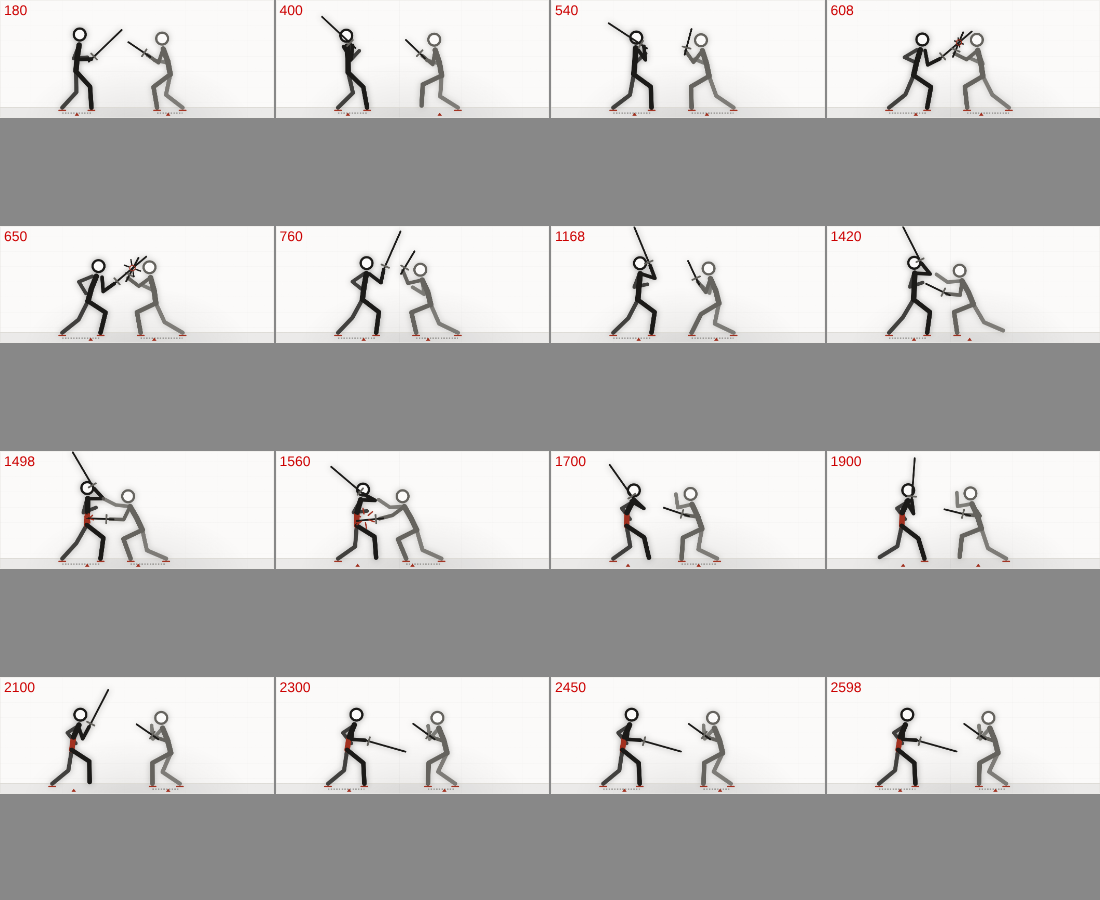
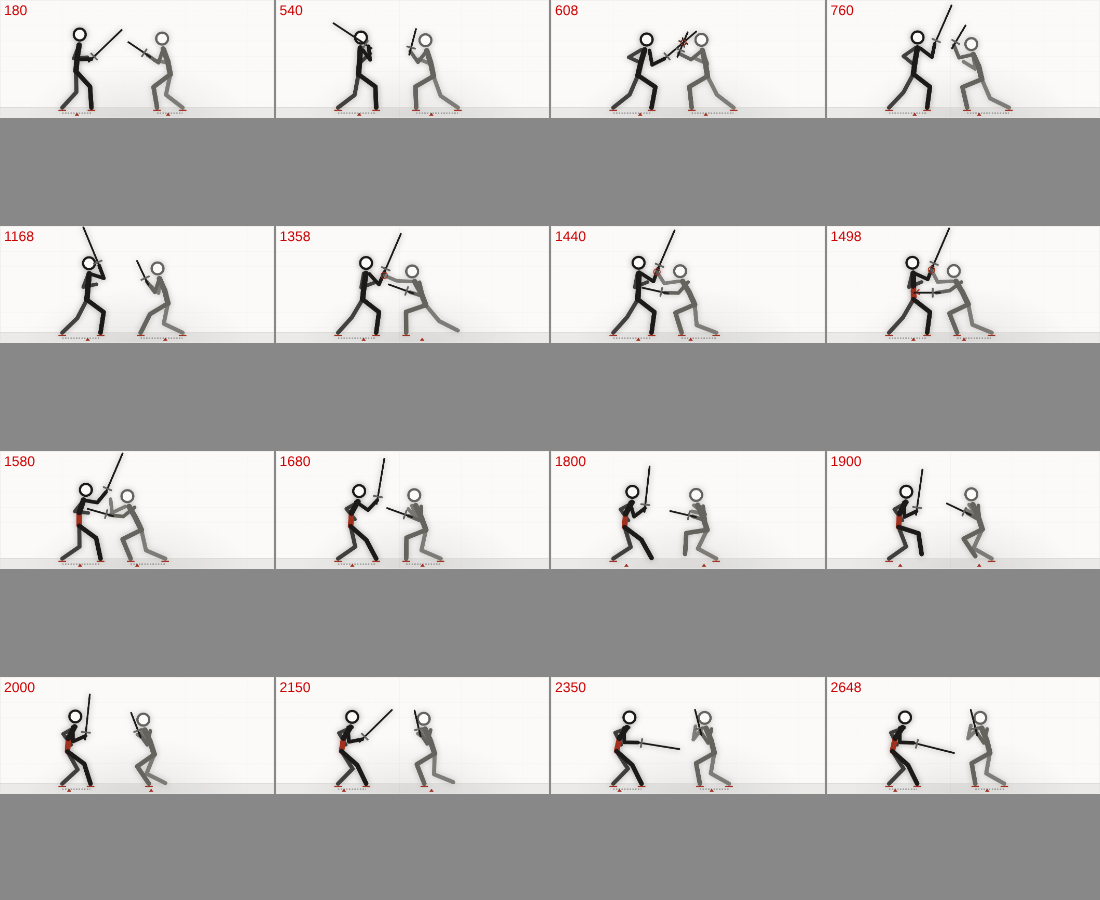
feat(pits): exchange study second pass: arm control, sword recovery, weighted steps, wounded stance
Owner's review of the spring exchange study: the sword arm is caught at the
wrist, held through the thrust and let go; the sword comes back hilt first, clear
of the face; steps load the other foot or push off, lift, set down and then
transfer the weight; the wounded fighter ends bent over the wound, weight back,
point low.

Claude-Session: https://claude.ai/code/session_018bTfyrAX6cckCNBNYAZYCu

diff --git a/experiments/pits-spring.js b/experiments/pits-spring.js
@@ -42,6 +42,21 @@ function Fighter(id,hx,face,weapon,guard){
 // a key pose in the fighter's own frame. w is the blade's angle as seen (converted to a wrist turn from the key's own arm)
 Fighter.prototype.key=function(t,pose,order){this.keys.push({t,pose,order:order||'attack'});return this;};
 Fighter.prototype.step=function(foot,t0,t1,x,lift){this.feet[foot].push({t0,t1,x,lift:lift==null?8:lift});return this;};
+// A step with its weight handled. Before the foot leaves, the hips go over the other foot (that leg is loaded, the
+// knees give a little: the push); the foot lifts, travels and is set down; then the hips move onto the new base.
+// settle: where between the support foot and the placed foot the weight ends (0 = on the support foot).
+Fighter.prototype.walk=function(foot,t0,t1,x,opt){
+  const o=opt||{},other=foot==='ff'?'bf':'ff',sup=footX(this,other,t0),from=footX(this,foot,t0),py=o.py==null?74:o.py;
+  this.step(foot,t0,t1,x,o.lift==null?10:o.lift);
+  this.key(t0-(o.lead==null?170:o.lead),{px:sup+(from-sup)*(o.load==null?.2:o.load),py:py-3});
+  // the hips travel while the foot is in the air (a spring arrives late, so the key is set at mid-step)
+  this.key(t0+(t1-t0)*.4,{px:sup+(x-sup)*(o.settle==null?.45:o.settle),py});
+  // push: the foot that is about to leave drives the hips toward the support foot (out of a lunge, where the stance is
+  // too long for the hips to get over the rear foot first)
+  if(o.push)this.impulse(t0,{px:Math.sign(sup-from)*o.push});
+  this.steps=(this.steps||[]).concat([{foot,t0,t1,sup:other,push:!!o.push}]);
+  return this;
+};
 Fighter.prototype.impulse=function(t,v){this.impulses.push({t,v});return this;};
 // a contact constraint: from t0 the hand is blended toward the place where the point `along` the blade (or the empty
 // hand, along null) is on target(t); fully there from t1 to t2; released at t2 with the momentum it had.
@@ -59,13 +74,20 @@ function pose(f,s,t){
   return q;
 }
 const sm=u=>u<=0?0:u>=1?1:u*u*(3-2*u);
+// A step, from the floor up: the foot pushes off (it rises before it travels), swings, is set down at its place
+// (it arrives a moment before it takes weight), and only travels while it is clearly off the floor.
+const STEP_GO=.14,STEP_SET=.88;
 function footX(f,foot,t){
   let x=f.home[foot];
-  for(const s of f.feet[foot]){if(t>=s.t1)x=s.x;else if(t>s.t0){return x+(s.x-x)*sm((t-s.t0)/(s.t1-s.t0));}else break;}
+  for(const s of f.feet[foot]){
+    if(t>=s.t1)x=s.x;
+    else if(t>s.t0){const u=(t-s.t0)/(s.t1-s.t0);return x+(s.x-x)*sm((u-STEP_GO)/(STEP_SET-STEP_GO));}
+    else break;
+  }
   return x;
 }
 function footY(f,foot,t){
-  for(const s of f.feet[foot])if(t>s.t0&&t<s.t1)return s.lift*Math.sin(Math.PI*(t-s.t0)/(s.t1-s.t0));
+  for(const s of f.feet[foot])if(t>s.t0&&t<s.t1)return s.lift*Math.pow(Math.sin(Math.PI*(t-s.t0)/(s.t1-s.t0)),.6);
   return 0;
 }
 
@@ -232,13 +254,29 @@ function build(){
     +'In the Pits the dagger fighter would choose the next action now.'});
   mark(P1,'both','Held for the decision: both poses stand on two feet, nobody is moving');
 
-  // 2. The counter, from the held poses. A short step in under the raised sword; the empty hand goes up to the sword
-  //    arm and stays on it; the thrust goes in low to the abdomen. The sword fighter is trying to bring the sword back.
-  const tk=P1+330;
-  B.step('ff',P1+30,P1+210,84,6).step('bf',P1+200,P1+330,6,5);
-  B.key(P1+10,{px:26,py:62,lean:20,bend:8,head:-16,h:[8,-26],w:10,o:[34,24]});
-  A.key(P1+80,{py:74,lean:3,bend:-2,head:-4,h:[14,22],w:108,o:[18,-20]});
-  const rec=simulate(F,tk+5);
+  // 2. The counter, from the held poses. The sword fighter starts to bring the sword back down; the dagger fighter steps
+  //    in under it, catches the sword arm at the wrist with the empty hand and stops it there, and thrusts low while
+  //    holding it. The arm is held (it cannot come down) until the dagger fighter lets go to step out.
+  const tk=P1+330,tg=P1+190,tr=tk+40;
+  B.step('ff',P1+50,P1+170,84,8).step('bf',P1+172,P1+272,8,7);
+  B.key(P1+10,{px:40,py:60,lean:22,bend:8,head:-16,turn:-12,h:[8,-26],w:10,o:[34,24]});
+  // the sword starts down and forward: the hand leads, the point is still up
+  A.key(P1+20,{py:74,lean:7,bend:2,head:-8,turn:8,h:[44,0],w:58,o:[18,-20]});
+  let rec=simulate(F,tg+5);
+  // the catch: the sword hand stops where it is caught (an impulse), and is held there; the dagger fighter then lifts
+  // it a little as the thrust goes in (the arm is driven up and back, the sword fighter leans away from the push)
+  const qg=pose(A,rec.a[tg/REC],tg),jg=solve(qg,A.weapon.len),caught=A.W(jg.Hn);
+  const lifted=[caught[0]-6*A.face,caught[1]+12];
+  const held=t=>{const u=sm((t-tg)/(tk-tg));return [caught[0]+(lifted[0]-caught[0])*u,caught[1]+(lifted[1]-caught[1])*u];};
+  A.impulse(tg+1,{hx:'stop',hy:'stop',wr:'stop'});
+  A.pin('h',0,held,tg,tg+1,tr+50);
+  A.key(tg,{lean:-1,bend:-3,head:-2,turn:2,w:92},'together');
+  // the empty hand on the forearm just behind the wrist (never on the blade)
+  const wrist=(t,ctx)=>{const q=pose(A,ctx.out?ctx.out.a:A.start,t),j=solve(q,A.weapon.len);
+    return A.W([j.Hn[0]+(j.E[0]-j.Hn[0])*.25,j.Hn[1]+(j.E[1]-j.Hn[1])*.25]);};
+  B.pin('o',null,wrist,P1+60,tg,tr);
+  seq.grips=[{who:'b',t0:tg,t1:tr}];
+  rec=simulate(F,tk+5);
   const qA2=pose(A,rec.a[tk/REC],tk),jA2=solve(qA2,A.weapon.len);
   const abd=[(jA2.M[0]+jA2.P[0])/2+4,(jA2.M[1]+jA2.P[1])/2];
   const qB2=pose(B,rec.b[tk/REC],tk),T=A.W(abd);
@@ -246,39 +284,47 @@ function build(){
   const abdomen=(t,ctx)=>{const q=pose(A,ctx.out?ctx.out.a:A.start,t),j=solve(q,A.weapon.len);
     return A.W([(j.M[0]+j.P[0])/2+4,(j.M[1]+j.P[1])/2]);};
   B.pin('h',46,abdomen,tk-110,tk,tk+25);
-  // the empty hand checks the sword arm at the forearm while the thrust goes in
-  const forearm=(t,ctx)=>{const q=pose(A,ctx.out?ctx.out.a:A.start,t),j=solve(q,A.weapon.len);
-    return A.W(j.E);};
-  B.pin('o',null,forearm,P1+120,tk-40,tk+30);
   seq.contacts.counter={t:tk,along:46};
-  mark(P1,'b','Counter: a short step in under the raised sword; the empty hand goes up to the sword arm');
-  mark(tk-180,'b','Thrust: low and straight to the abdomen, the empty hand still on the sword arm');
+  mark(P1,'b','Counter: a short step in under the raised sword as the sword fighter starts to bring it down');
+  mark(tg,'b','Control: the empty hand catches the sword arm at the wrist and stops it; the sword cannot come down');
+  mark(tk-180,'b','Thrust: low and straight to the abdomen while the sword arm is held up');
 
   // 3. The wound. The reaction starts at the abdomen: the hips are pushed back, the body folds over the wound, the
-  //    head follows late, the sword arm drops. A rear step catches the weight. A minor wound: the fighter goes on.
-  A.impulse(tk,{px:-170,bend:320,lean:-60,head:200,hx:-160,py:-50});
-  A.key(tk,{px:-6,py:72,lean:2,bend:24,head:-24,turn:-4,h:[2,4],w:112,o:[6,-34]},'together');
-  // the empty hand goes to the wound and stays on it (a contact with the fighter's own body)
+  //    head follows late. The sword arm is still held, so it stays up until it is let go.
+  A.impulse(tk,{px:-150,bend:320,lean:-60,head:200,py:-50});
+  A.key(tk,{px:-8,py:72,lean:4,bend:24,head:-24,turn:-4,o:[6,-34]},'together');
   const ownWound=(t,ctx)=>{const q=pose(A,ctx.out?ctx.out.a:A.start,t),j=solve(q,A.weapon.len);
     return A.W([(j.M[0]+j.P[0])/2+7,(j.M[1]+j.P[1])/2]);};
-  A.pin('o',null,ownWound,tk+40,tk+220,tk+1200);
-  A.step('ff',tk+40,tk+220,44,6).step('bf',tk+230,tk+430,-56,7);
+  A.pin('o',null,ownWound,tk+40,tk+220,tk+1400);
   seq.stops.push({t:tk,d:90});seq.fx.push({t:tk,kind:'wound',at:T});
   seq.wounds.push({t:tk,who:'a',part:'abdomen',level:'minor'});
-  mark(tk,'a','Hit to the abdomen: the hips go back, the body folds over the wound, the head follows; a rear step catches the weight');
+  mark(tk,'a','Hit to the abdomen: the hips go back and the body folds over the wound, the head follows; the sword arm is still held');
 
-  // 4. Recovery, into stances neither began in. The dagger comes back out along its line and the dagger fighter steps
-  //    out behind the empty hand; the sword fighter gives ground, closed over the wound, the point low and in line.
-  B.key(tk+60,{px:34,py:66,lean:18,bend:6,head:-16,h:[12,-24],w:14},'together');
-  B.step('bf',tk+200,tk+380,-24,6).step('ff',tk+360,tk+560,36,6);
-  B.key(tk+380,{px:-6,py:68,lean:14,bend:8,head:-14,h:[16,-20],w:36,o:[24,6]});
-  A.step('ff',tk+450,tk+640,24,6);
-  A.key(tk+300,{h:[22,-4],w:62});
-  A.key(tk+420,{px:-14,py:75,lean:9,bend:14,head:-12,turn:-2,o:[8,-38]});
-  A.key(tk+560,{h:[24,-34],w:-40});
-  mark(tk+150,'both','Recovery: the dagger comes out along its line; both give ground');
-  const end=tk+1100;
-  mark(tk+700,'both','New stances: the sword fighter closed over the wound, point low and in line; the dagger fighter low, empty hand up');
+  // 4. Release and recovery. The dagger fighter lets go with a small push and steps out, rear foot first.
+  //    The sword comes down on a deliberate path: the elbow drops and the hilt comes down in front of the chest
+  //    with the point still up (clear of the face), then the point is lowered into a low guard as the weight goes back.
+  B.key(tr,{o:[16,-10]},'together');                     // the empty hand lets go and comes back down to the chest, clear of the sword
+  B.impulse(tr+1,{ox:-260,oy:-160});                     // a small push off the arm as it lets go
+  B.key(tk+60,{lean:18,bend:6,head:-16,h:[12,-24],w:14},'together');
+  // out of the lunge: the front foot pushes off and comes back first (the weight goes back onto the rear foot),
+  // then the rear foot steps back from the front one
+  B.walk('ff',tk+240,tk+420,44,{py:66,lift:11,load:.3,settle:.15,push:220});
+  B.walk('bf',tk+500,tk+660,-20,{py:68,lift:10,load:.3,settle:.5});
+  B.key(tk+300,{h:[12,-8],w:76});                       // the dagger comes up to cover as it steps out
+  B.key(tk+660,{lean:14,bend:8,head:-14,o:[24,6]});
+  A.impulse(tr+50,{hx:'stop',hy:-180});                  // let go, the arm drops under its own weight
+  A.key(tr+50,{h:[30,-10],w:88});                            // released: the elbow drops, the hilt comes down in front of the shoulder
+  A.key(tk+200,{h:[24,-20],w:84});                      // the hilt in front of the chest, the point still up, clear of the face
+  A.key(tk+480,{h:[26,-28],w:24});                      // once the dagger fighter is out: the point comes down toward the opponent
+  A.key(tk+680,{h:[24,-34],w:-26});                     // a low guard: point at the opponent's knees
+  // gives ground with the front foot, the weight carried back over the rear leg
+  A.walk('ff',tk+300,tk+490,28,{py:72,lift:10,load:.3,settle:.12,push:180});
+  A.key(tk+520,{lean:12,bend:22,head:-20,turn:-6});    // closed over the wound: the shoulders round, the wound side away
+  mark(tr,'b','Release: the hand lets go with a small push; the dagger comes back out along its line');
+  mark(tk+240,'b','Steps out: the front foot pushes off and comes back under the body; then the rear foot steps back');
+  mark(tk+260,'a','The sword comes down: elbow first, the hilt in front of the chest with the point up, then the point lowers');
+  const end=tk+1150;
+  mark(tk+700,'both','New stances: the sword fighter bent over the wound, weight back, point low; the dagger fighter low, empty hand up');
   seq.pauses.push({t:end,label:'End of the exchange. Both stay in these poses for the next decision; the next exchange starts from them.'});
   seq.dur=end+10;seq.P1=P1;seq.tk=tk;seq.tc=tc;seq.end=end;
   seq.rec=simulate(F,seq.dur);

diff --git a/experiments/pits-exchange-study.js b/experiments/pits-exchange-study.js
@@ -16,7 +16,7 @@ function clearance(t){
   for(const n of B_PARTS){const p=PS.world(seq,'b',t,n),q=toSeg(p,h,tip),d=dist(p,q);if(!best||d<best.d)best={d,p,q,n};}
   return best;
 }
-const inContact=t=>{const c=seq.contacts;return Math.abs(t-c.parry.t)<=90||(t>=seq.tk&&t<=seq.tk+60);};
+const inContact=t=>{const c=seq.contacts;return Math.abs(t-c.parry.t)<=90||(t>=seq.tk&&t<=seq.tk+60)||(seq.grips||[]).some(g=>t>=g.t0-40&&t<=g.t1+30);};
 
 function overlays(t){
   let s='';
@@ -44,6 +44,9 @@ function overlays(t){
   // the parry's one contact point, from the moment it is met until the bind lets go
   const pc=seq.contacts.parry;
   if(t>=pc.t-1&&t<=pc.t+90)s+='<circle class="pc-contact" cx="'+pc.at[0]+'" cy="'+Y(pc.at[1])+'" r="6"/>';
+  // the grip on the sword arm, while it is held: a small ring where the hand closes on the forearm
+  for(const g of seq.grips||[])if(t>=g.t0&&t<=g.t1){const p=PS.world(seq,g.who,t,'oHn');
+    s+='<circle class="pc-grip" cx="'+p[0]+'" cy="'+Y(p[1])+'" r="7"/>';}
   return s;
 }
 function readout(t){
@@ -52,7 +55,8 @@ function readout(t){
   if(Math.abs(t-pc.t)<1){
     const a=PS.world(seq,'a',t,'blade',pc.alongA),b=PS.world(seq,'b',t,'blade',pc.alongB);
     s+=' · parry: sword and dagger '+dist(a,pc.at).toFixed(1)+' and '+dist(b,pc.at).toFixed(1)+' units from the contact point';
-  }else if(inContact(t))s+=' · in contact';
+  }else if((seq.grips||[]).some(g=>t>=g.t0&&t<=g.t1))s+=' · the sword arm is held at the wrist';
+  else if(inContact(t))s+=' · in contact';
   else s+=' · nearest the dagger fighter comes to the sword blade: '+c.d.toFixed(0)+' units ('+c.n+')';
   $('pcReadout').textContent=s;
 }
@@ -105,8 +109,9 @@ const nudge=d=>seek(st.td+d*FRAME);
 $('pcScrub').max=Math.round(total);
 for(const m of seq.marks){const i=document.createElement('i');i.style.left=(PS.shownAt(seq,m.t)/total*100)+'%';$('pcMarks').appendChild(i);}
 for(const p of seq.pauses){const i=document.createElement('i');i.className='stop';i.style.left=(PS.shownAt(seq,p.t)/total*100)+'%';$('pcMarks').appendChild(i);}
-const JUMPS=[['Parry contact',seq.contacts.parry.t],['Held for the decision',seq.P1],['Counter lands',seq.tk],
-  ['Wound reaction',seq.tk+160],['End pose',seq.end]];
+const GRIP=(seq.grips||[])[0];
+const JUMPS=[['Parry contact',seq.contacts.parry.t],['Held for the decision',seq.P1],['Sword arm caught',GRIP.t0],['Counter lands',seq.tk],
+  ['Arm let go',GRIP.t1+40],['Wound reaction',seq.tk+160],['Sword recovers',seq.tk+300],['End pose',seq.end]];
 for(const [label,t] of JUMPS){const b=document.createElement('button');b.type='button';b.textContent=label;
   b.addEventListener('click',()=>seek(PS.shownAt(seq,t)));$('pcJumps').appendChild(b);}
 

diff --git a/experiments/pits-exchange-study.html b/experiments/pits-exchange-study.html
@@ -9,7 +9,7 @@ document.documentElement.setAttribute("data-mode",m);})();}catch(e){}</script>
 <title>The Pits: exchange study</title>
 <link rel="stylesheet" href="pits-stage.css?v=ccb5857e29">
 <link rel="stylesheet" href="../sitota-theme.css?v=c8b123e401">
-<link rel="stylesheet" href="pits-choreography.css?v=94fc544b63">
+<link rel="stylesheet" href="pits-choreography.css?v=1dc540380e">
 </head>
 <body class="pc-page">
 <main class="pc-main">
@@ -53,7 +53,7 @@ document.documentElement.setAttribute("data-mode",m);})();}catch(e){}</script>
   <p class="pc-keys">Space: play or pause. Left and right arrows: one frame (1/60 s). Drag the bar to stop on any moment.</p>
 </main>
 <script src="pits-motion.js?v=0791cd5339"></script>
-<script src="pits-spring.js?v=0eafef3ca3"></script>
-<script src="pits-exchange-study.js?v=fbafb20624"></script>
+<script src="pits-spring.js?v=0b09de1480"></script>
+<script src="pits-exchange-study.js?v=0a9bc07ea9"></script>
 </body>
 </html>

diff --git a/experiments/pits-choreography.html b/experiments/pits-choreography.html
@@ -9,7 +9,7 @@ document.documentElement.setAttribute("data-mode",m);})();}catch(e){}</script>
 <title>The Pits: movement study</title>
 <link rel="stylesheet" href="pits-stage.css?v=ccb5857e29">
 <link rel="stylesheet" href="../sitota-theme.css?v=c8b123e401">
-<link rel="stylesheet" href="pits-choreography.css?v=94fc544b63">
+<link rel="stylesheet" href="pits-choreography.css?v=1dc540380e">
 </head>
 <body class="pc-page">
 <main class="pc-main">

diff --git a/experiments/pits-choreography.css b/experiments/pits-choreography.css
@@ -37,3 +37,4 @@
 .pc-contact{fill:none;stroke:var(--accent);stroke-width:2}
 .pc-gap{stroke:var(--accent);stroke-width:1.5;stroke-dasharray:4 3}
 .pc-strain{fill:none;stroke:var(--accent);stroke-width:2.5}
+.pc-grip{fill:none;stroke:var(--accent);stroke-width:2}

diff --git a/docs/pits-animation-direction.md b/docs/pits-animation-direction.md
@@ -134,6 +134,17 @@ All three are in `experiments/pits-motion.js` (pure, no page or rules access; te
 - Tuning is for this one exchange and this measure. Other weapons, distances or orders would need their own keys, or a solver for reach.
 - Springs make timing indirect: a key sets where a part goes, not when it arrives. Contacts are exact only because they are constraints.
 
+**Second pass (owner's review, 2026-11-12).** The owner judged the study more natural than the movement study and asked for four fixes. Each is held by a test in `tests/pits-spring.cjs`.
+
+1. **Sword recovery after the stab.** The elbow drops first, then the hilt comes down in front of the chest with the point up. Only once the dagger fighter's front foot is back is the point lowered into the low guard. The hand stays at least 30 units from the face and the blade at least 18. The point starts down at least 150 ms after the hilt, and the blade turns at under 40% of the cut's peak speed.
+2. **The raised sword arm during the counter.** The sword fighter starts the sword down and forward. The dagger fighter's empty hand catches the forearm just behind the wrist (a ring on the page marks it), which stops the arm in front of the body, not beside the head. The hand holds it, lifting it a little, through the thrust. Then it lets go with a small push away, and the arm drops only after it is free.
+3. **Grounded steps** (`Fighter.walk`). Before a step, the weight goes over the other foot, or a push-off drives the body there (out of the lunge, where the stance is too long to load the rear foot first). The foot rises before it travels and moves only while clearly off the floor (at least 2 units). It is set down a moment before it takes weight, and the hips then move onto the new base. The dagger fighter comes out of the lunge front foot first, then steps the rear foot back.
+4. **The wounded end stance.** Bend at least 18 over the abdomen, the shoulders rounded and the wound side turned away, the empty hand on the wound, the weight behind the middle of the feet, the hilt low in front with the point forward and down.
+
+Checked from stills at 50 ms intervals through the counter and recovery, and from numbers. Playback at normal and half speed was checked in a browser for mechanics only. Whether it now looks right at speed is for the owner.
+
+**Still weak after this pass.** For about 180 ms of the push-off out of the lunge, the dagger fighter's centre of mass is about 28 units ahead of the rear foot. The body is moving back, but the frame is less settled than a slow step. The sword holds upright in front of the chest for about 250 ms while the dagger fighter steps out, which may read as a pause.
+
 ## For Sonnet: routine defects in the pose stage
 
 Items 2 and 3 now apply only to the pose stage behind `?stage=poses`; fix them only if the owner wants to keep it. Item 1 is fixed for both stages (2026-11-12), item 4 is done.

diff --git a/HANDOFF.md b/HANDOFF.md
@@ -16,6 +16,8 @@ _Last updated: 2026-11-12 by Claude (Pits: spring-driven exchange study)_
 
 ## Next
 
+000000. **Claude, done 2026-11-12 (exchange study, second pass):** the owner's four points: sword recovery path, the sword arm caught, held and released, steps that carry weight, the wounded end stance (`docs/pits-animation-direction.md`, "Second pass (owner's review"). **Owner:** watch `experiments/pits-exchange-study.html` at normal and half speed. If it holds up, say so and Claude starts porting the spring layer into the live Pits, one phrase at a time (the ordinary sword cut and parry first).
+
 00000. **Claude, done 2026-11-12 (owner's animation reference pack):** a separate prototype, `experiments/pits-exchange-study.html`: one cut, parry, counter, wound and recovery, driven by springs between a few key poses (after Rosen's GDC 2014 slides; the recording was not watched), with impulses for impacts and exact contact constraints. Normal and half speed, frame step, decision hold toggle, overlays. GSAP, Mixamo and Spine not used (reasons in `docs/pits-animation-direction.md`, "Spring exchange study"). The live Pits is unchanged. **Owner:** watch it at normal and half speed and say whether it looks more natural than `pits-choreography.html?seq=sword`. If yes, Claude ports the spring layer into the live phrases, one phrase at a time; if not, name the moment that looks wrong.
 
 0000. **Claude, done 2026-11-12 (second pass):** the sword exchange after the owner's second review: cuts shaped by their target from the preparation (high, body, legs), one continuous drive instead of three phases, defenders that go to a guard (a hit beats it; a parry is set early and binds the blade). Details and what is still weak: `docs/pits-animation-direction.md`, "Second pass"; contact sheet `docs/pits-visual-checks/sword-exchange-review.png`. **Owner:** watch `experiments/pits-choreography.html?seq=sword` at normal speed and say whether this is the standard to copy, or which moment still looks wrong; then Claude takes the same care over the next phrase you name (thrust, shield, trip...).

diff --git a/CHANGELOG.md b/CHANGELOG.md
@@ -5,6 +5,14 @@ Entries before November 5, 2026 were merged from separate `CHANGELOG-<TOPIC>.md`
 
 ---
 
+## The Pits: exchange study, second pass (owner's review)
+
+- **The sword arm is caught, held and let go.** The sword fighter starts to bring the sword down. The dagger fighter's empty hand catches it at the wrist and stops it in front of the body, holding it up through the thrust (a ring marks the grip). Then it lets go with a small push, and only after that does the arm drop.
+- **A deliberate sword recovery.** The elbow drops and the hilt comes down in front of the chest with the point up, clear of the face. The point is lowered only once the dagger fighter has stepped out, at under a third of the cut's speed.
+- **Steps that carry weight.** Before a foot leaves, the weight goes over the other foot, or the foot pushes off (out of the lunge). The foot rises before it travels, is set down, and then the hips move onto the new base. The dagger fighter comes out of the lunge front foot first.
+- **The wound shapes the end.** The sword fighter ends bent over the abdomen with the hand on the wound, weight back and the point low in front.
+- New jump buttons: *Sword arm caught*, *Arm let go*, *Sword recovers*. Tests: `tests/pits-spring.cjs` (19 checks).
+
 ## The Pits: a spring-driven exchange study (prototype)
 
 - **New page: `experiments/pits-exchange-study.html`.** One exchange, broadsword against dagger: cut, parry, counter, wound, recovery. Results are fixed in advance and labelled; the live Pits is unchanged.
